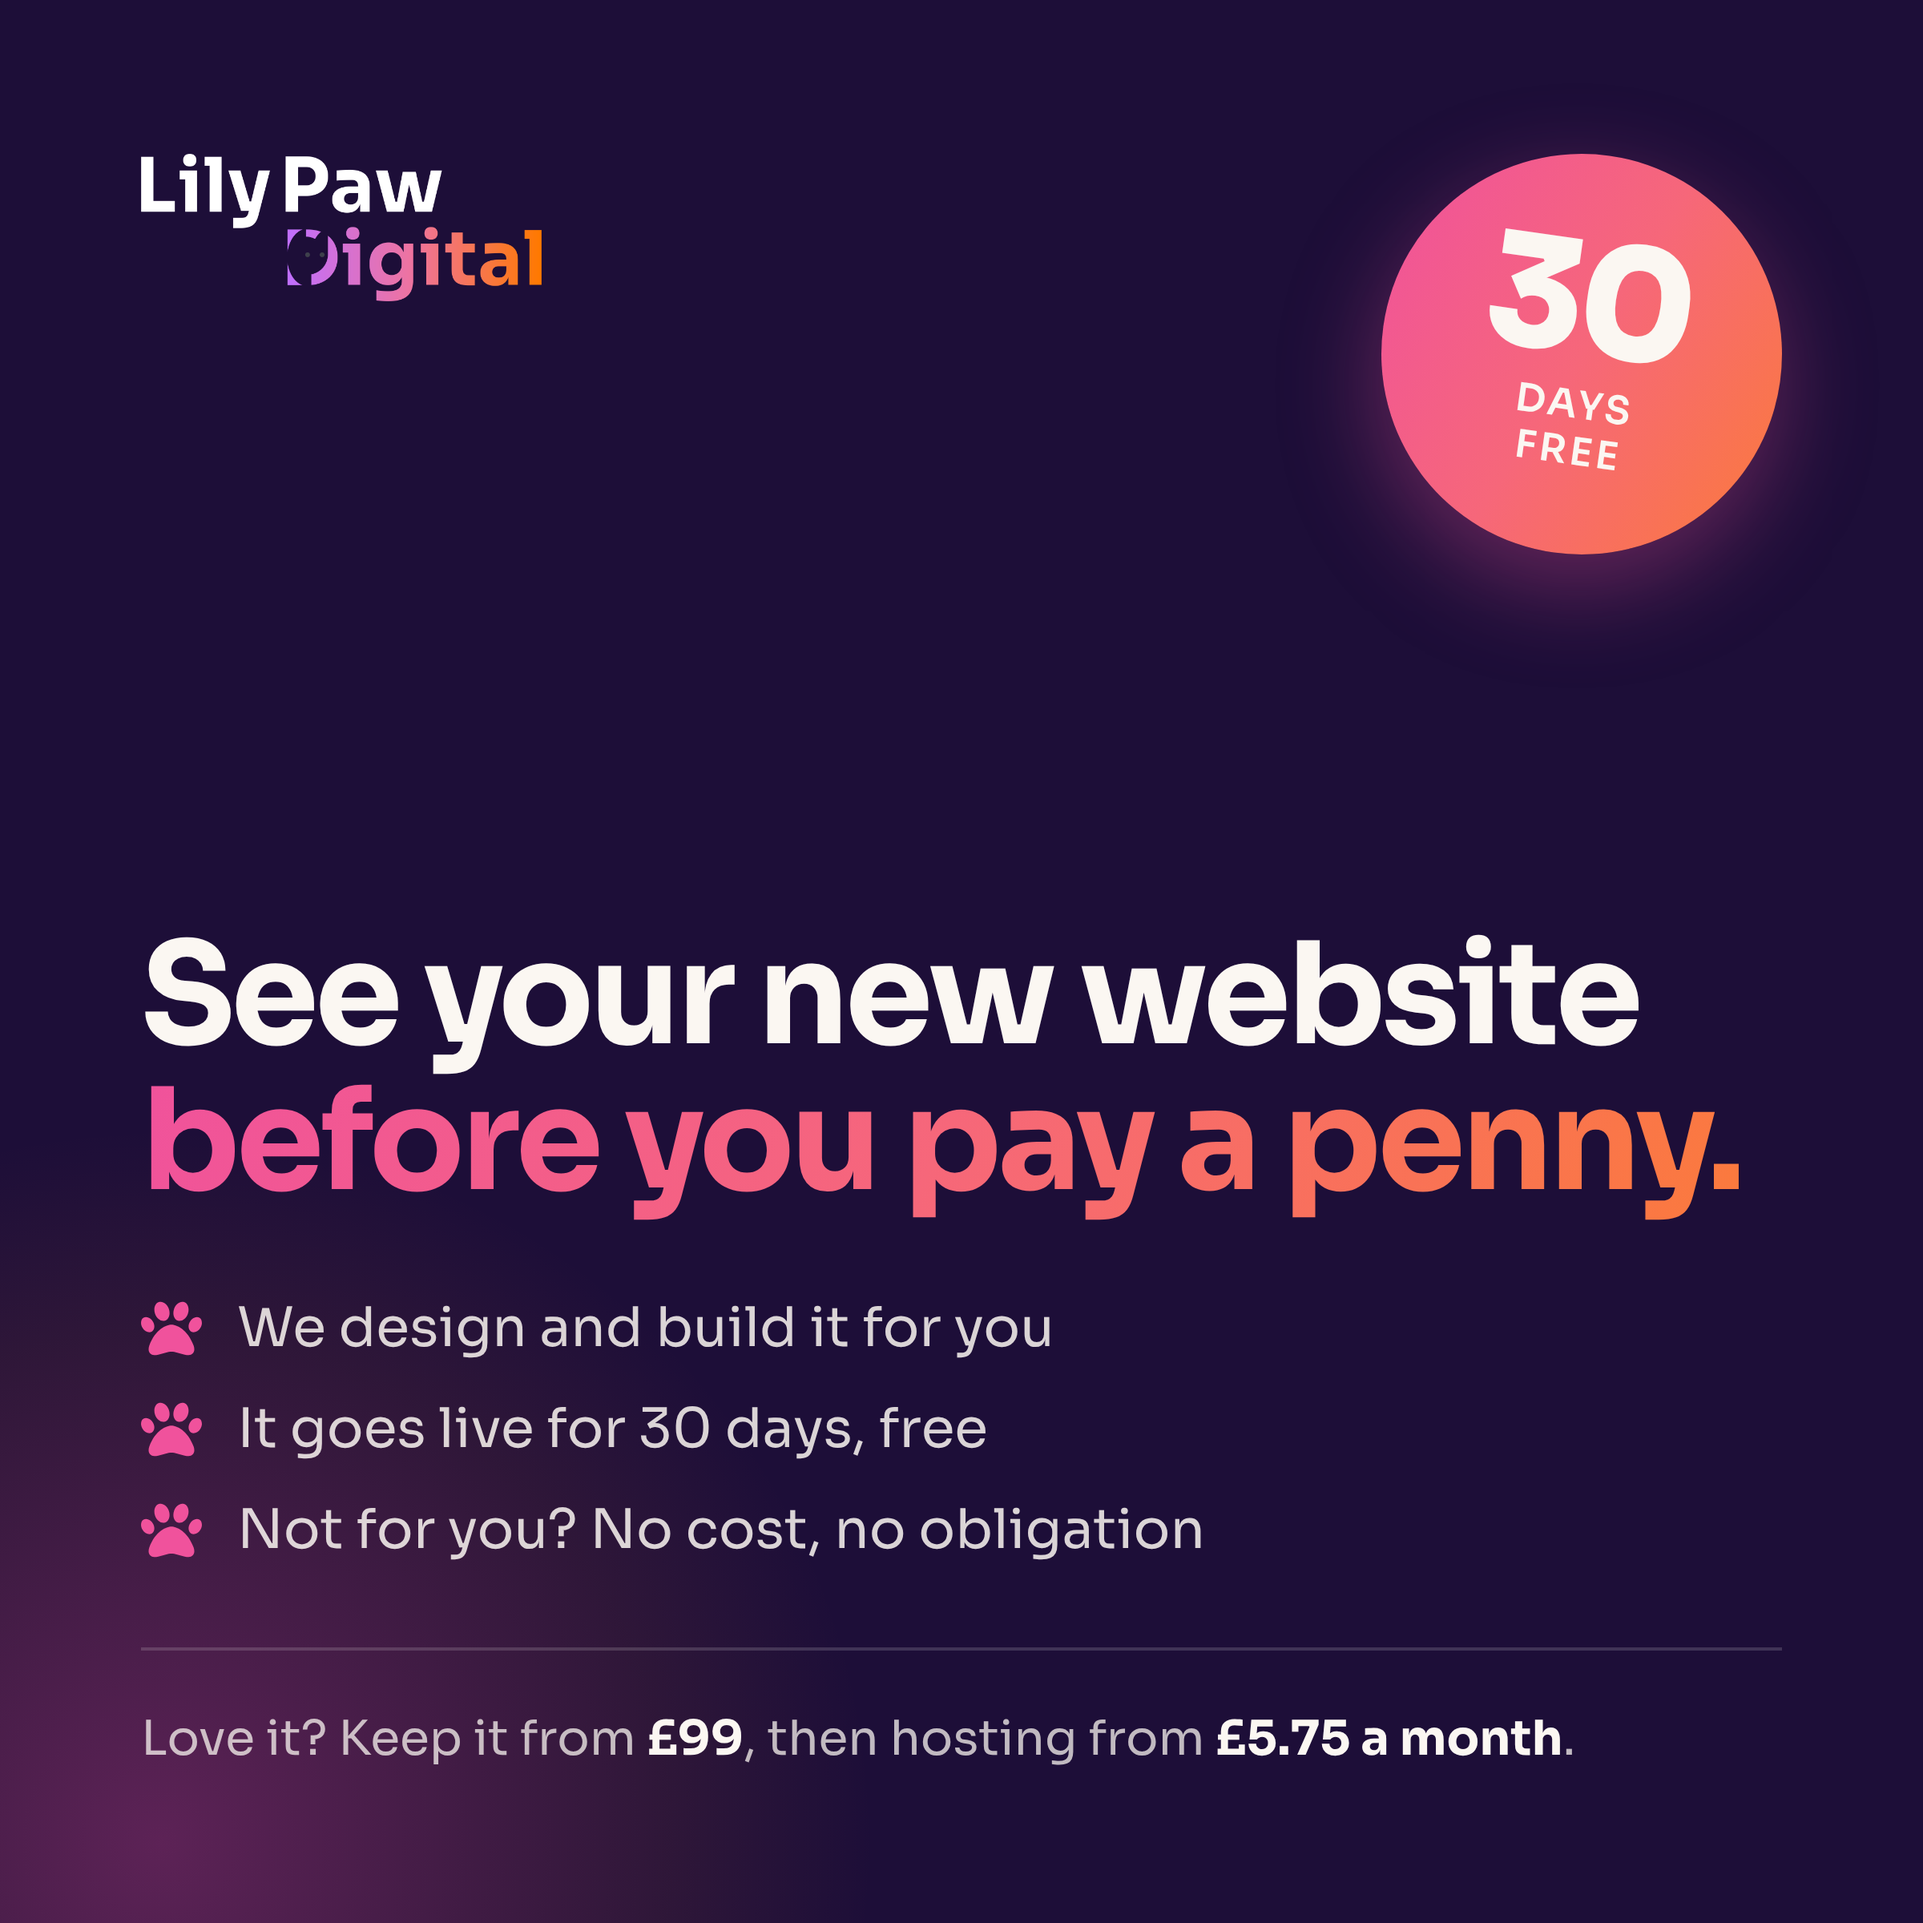
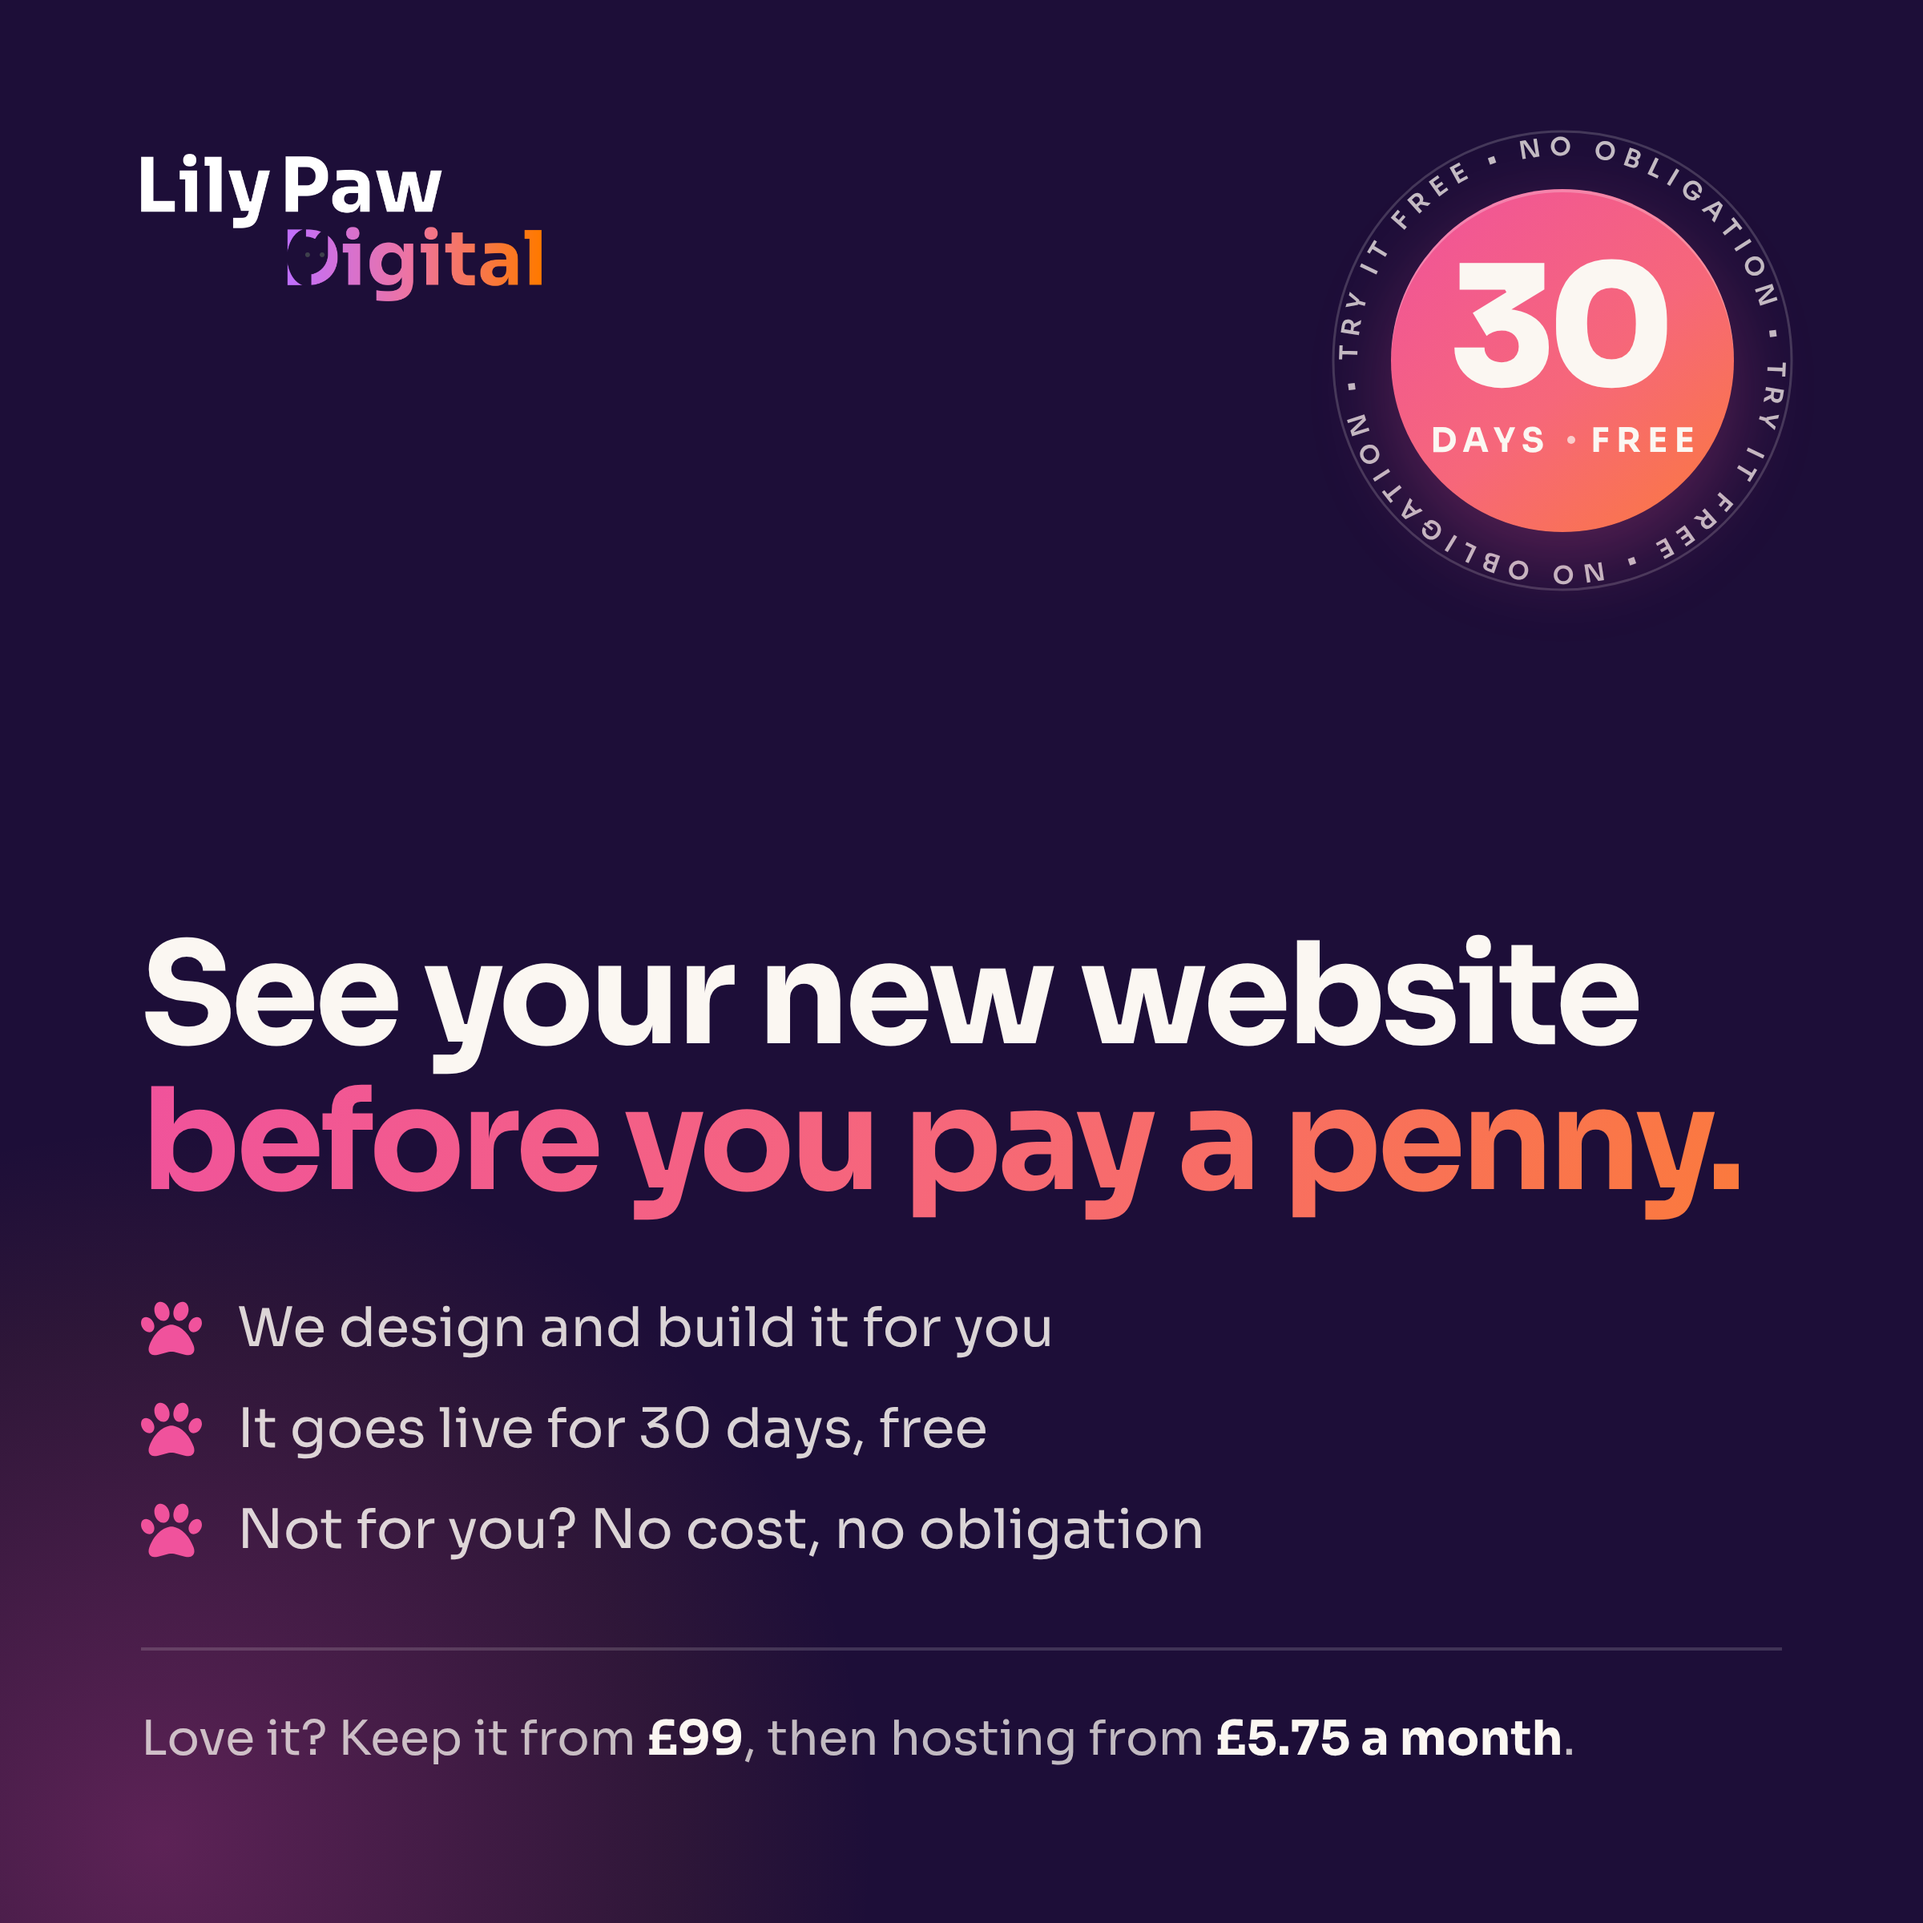
Restyle 30 days free badge on LinkedIn advert
Claude-Session: https://claude.ai/code/session_01HKWtXHK8vokcRtvXPhprQV

Changed region(s): [[0.6875, 0.0625, 0.9375, 0.3125]]

diff --git a/linkedin/advert-free-trial.html b/linkedin/advert-free-trial.html
@@ -5,9 +5,12 @@ body{width:1200px;height:1200px;background:#1d0e38;font-family:Sora;color:#fbf7f
 .glow{position:absolute;width:900px;height:900px;left:-350px;bottom:-400px;border-radius:50%;background:radial-gradient(circle,rgba(240,82,156,.3),rgba(251,122,60,.08) 50%,transparent 70%)}
 .wrap{position:absolute;inset:0;padding:96px 88px;display:flex;flex-direction:column}
 .logo{height:92px;width:auto;align-self:flex-start}
-.badge{position:absolute;right:88px;top:96px;width:250px;height:250px;border-radius:50%;background:linear-gradient(115deg,#f0529c,#f6677a 50%,#fb7a3c);display:flex;flex-direction:column;align-items:center;justify-content:center;transform:rotate(8deg);box-shadow:0 20px 60px rgba(240,82,156,.35)}
-.badge b{font-size:96px;line-height:.9;font-weight:800;letter-spacing:-.04em}
-.badge span{font-size:24px;font-weight:600;letter-spacing:.08em;text-transform:uppercase;margin-top:8px;text-align:center;line-height:1.2}
+.badge{position:absolute;right:80px;top:80px;width:290px;height:290px}
+.badge svg.ring{position:absolute;inset:0;width:100%;height:100%;animation:none}
+.badge .disc{position:absolute;inset:38px;border-radius:50%;background:linear-gradient(140deg,#f0529c 0%,#f6677a 55%,#fb7a3c 100%);display:flex;flex-direction:column;align-items:center;justify-content:center;box-shadow:0 18px 50px rgba(240,82,156,.28),inset 0 2px 0 rgba(255,255,255,.25)}
+.badge b{font-size:104px;line-height:.82;font-weight:800;letter-spacing:-.05em;margin-left:-.05em}
+.badge .unit{margin-top:14px;font-size:21px;font-weight:700;letter-spacing:.2em;text-transform:uppercase;padding-left:.2em;display:flex;align-items:center;gap:10px}
+.badge .unit i{width:5px;height:5px;border-radius:50%;background:#fbf7f2;opacity:.7}
 .text{margin-top:auto}
 h1{font-size:88px;line-height:1.04;font-weight:700;letter-spacing:-.03em}
 h1 em{font-style:normal;white-space:nowrap;background:linear-gradient(115deg,#f0529c,#f6677a 50%,#fb7a3c);-webkit-background-clip:text;color:transparent}
@@ -18,7 +21,11 @@ li svg{width:38px;height:38px;flex:none;color:#f0529c}
 .price strong{color:#fbf7f2;font-weight:700}
 </style></head><body>
 <div class="glow"></div>
-<div class="badge"><b>30</b><span>days<br>free</span></div>
+<div class="badge">
+<svg class="ring" viewBox="0 0 290 290"><defs><path id="c" d="M145,145 m-128,0 a128,128 0 1,1 256,0 a128,128 0 1,1 -256,0"/></defs>
+<circle cx="145" cy="145" r="143" fill="none" stroke="rgba(251,247,242,.18)" stroke-width="1.5"/>
+<text font-family="Sora" font-size="15.5" font-weight="600" fill="rgba(251,247,242,.75)"><textPath href="#c" textLength="800" lengthAdjust="spacing">TRY IT FREE • NO OBLIGATION • TRY IT FREE • NO OBLIGATION •&#160;</textPath></text></svg>
+<div class="disc"><b>30</b><div class="unit">Days<i></i>Free</div></div></div>
 <div class="wrap">
 <img class="logo" src="../lilypawdigital/assets/images/logo-stacked.png">
 <div class="text">
